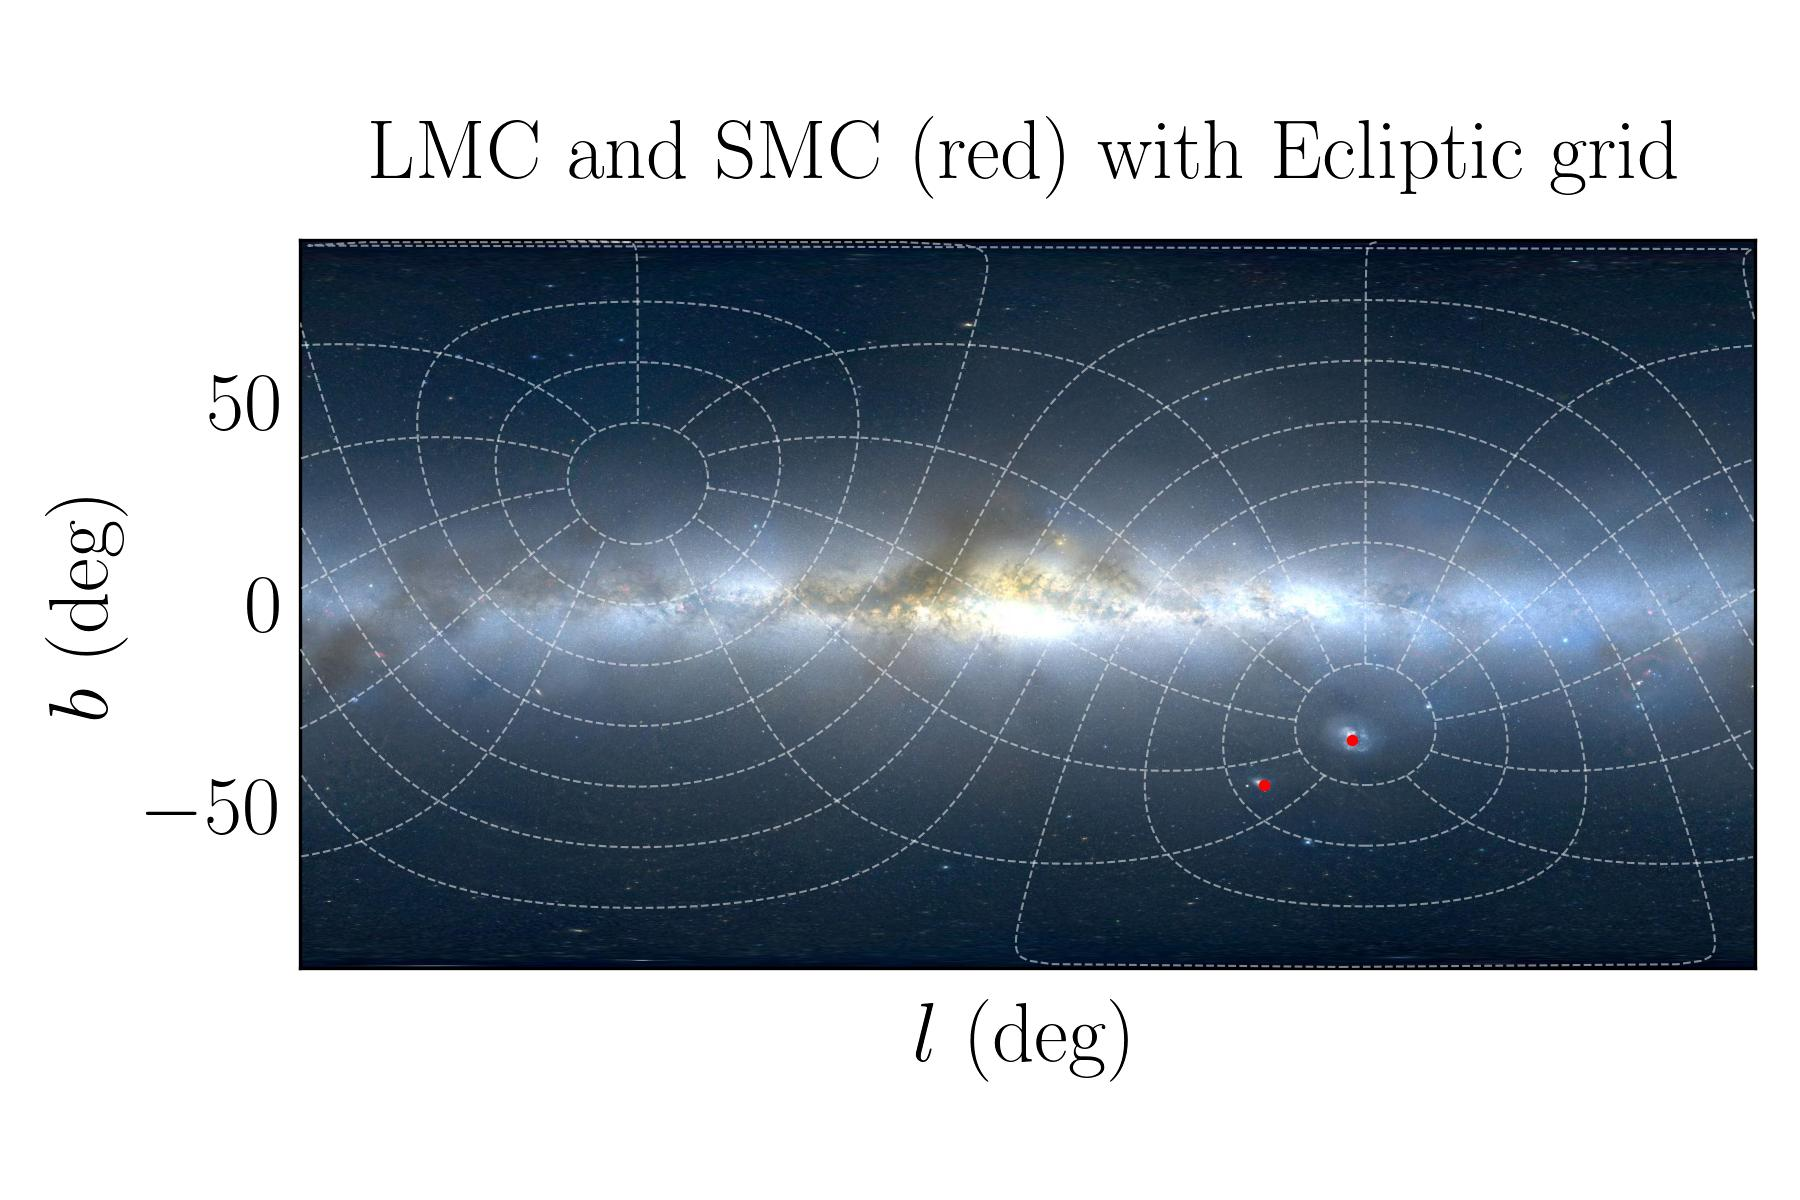
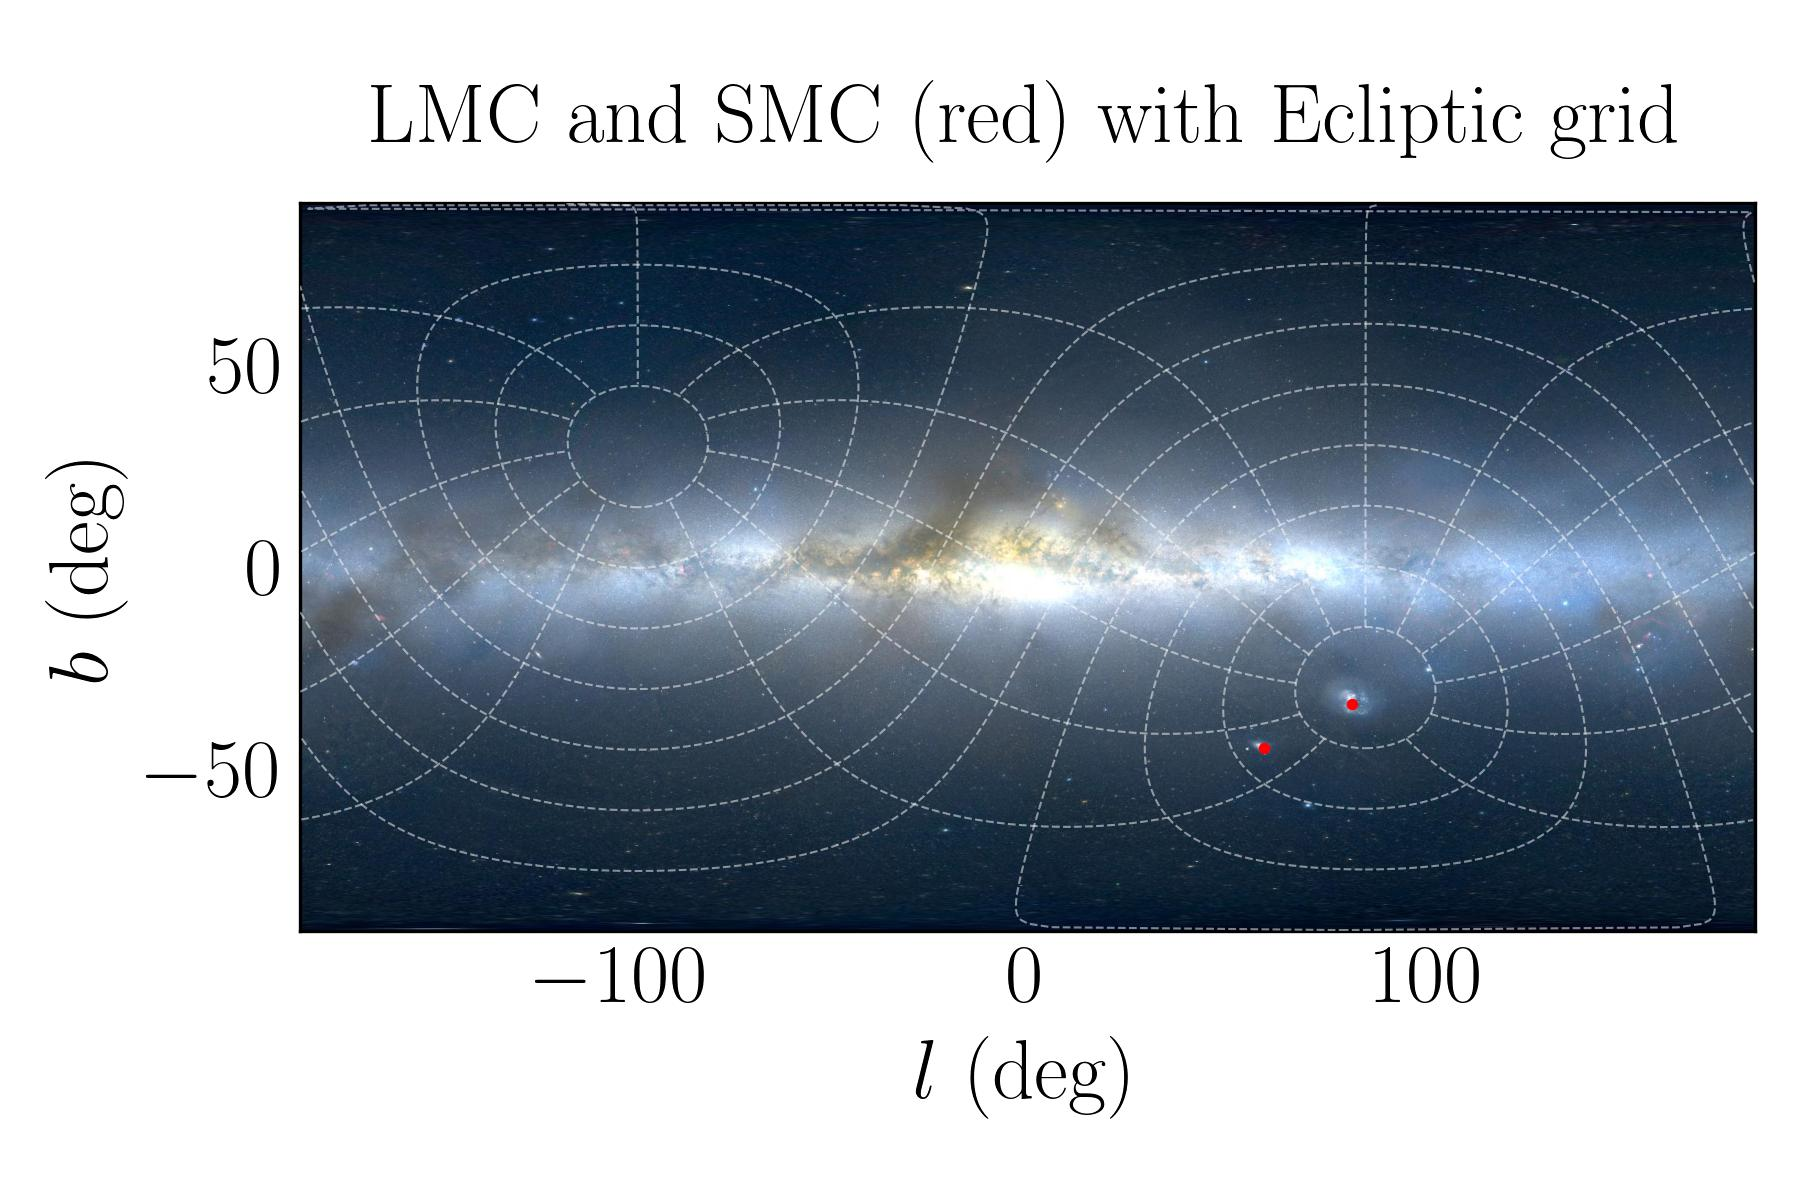
add objname conversion tests

diff --git a/src/mw_plot/base.py b/src/mw_plot/base.py
@@ -137,13 +137,13 @@ class MWPlotCommon(ABC):
             )
         result = result.filled(np.nan)[0]
 
-        if np.isnan(result["PLX_VALUE"]):
+        if np.isnan(result["PLX_VALUE"]) and np.isnan(result["Distance_distance"]):
+            # in case the distance is not available
+            distance = None
+        elif np.isnan(result["PLX_VALUE"]):
             distance = (
                 result["Distance_distance"] * u.Unit(result["Distance_unit"])
             ).to(u.kpc)
-        elif np.isnan(result["Distance_distance"]):
-            # in case the distance is not available
-            distance = None
         else:  # use parallax to calculate distance
             distance = (1 / result["PLX_VALUE"]) * u.kpc
 

diff --git a/tests/test_mpl.py b/tests/test_mpl.py
@@ -52,6 +52,11 @@ def test_mw_skymap(simbad, projection, grayscale, grid, background):
     plot_instance.savefig(file="lmc_smc_projection.png")
 
 
+@pytest.mark.parametrize("objname", ["M31", "Galactic Center"])
+def test_mw_skymap_objname(objname):
+    plot_instance = MWSkyMap(center=objname, radius=(5000, 5000) * u.arcsec, background="Gaia DR3 density map")
+
+
 @pytest.mark.parametrize(
     "projection,grid,background",
     [

diff --git a/src/mw_plot/matplotlib_backend.py b/src/mw_plot/matplotlib_backend.py
@@ -516,7 +516,8 @@ class MWSkyMap(MWSkyMapBase):
             grid_style = "--"
 
             self._built = True
-            self.ax.set_xticklabels([])
+            if self.projection != "equirectangular":
+                self.ax.set_xticklabels([])
             if self.grid is True:
                 for i in [0, -15, 15, -30, 30, -45, 45, -60, 60, -75, 75]:
                     self.ax.plot(

diff --git a/CHANGELOG.md b/CHANGELOG.md
@@ -1,20 +1,22 @@
 # Change log
 
 ## [0.13.0] - xx xxxx 20xx
-- Remove `setuptools` as a requirement
-- Add milkyway background in far-infrared, infrared and gamma
-- Add fetching Hierarchical Progressive Surveys (HiPS) images as background
+- Removed setuptools as a requirement
+- Added Milky Way background images in far-infrared, infrared, and gamma-ray wavelengths
+- Added support for fetching Hierarchical Progressive Surveys (HiPS) images as backgrounds
+- Improved test suite coverage
+- Enhanced documentation
 
 ## [0.12.0] - 10 June 2024
-- Add radius (r) as supported parameter for bokeh figures (Mitlasóczki Bence)
-- Fix a bug where ticks show up in between the all-sky plot and the colour bar when doing all-sky plot + scatter plot + colorbar (Camila Navarrete)
+- Added radius (r) as supported parameter for bokeh figures (Mitlasóczki Bence)
+- Fixed a bug where ticks show up in between the all-sky plot and the colour bar when doing all-sky plot + scatter plot + colorbar (Camila Navarrete)
 
 ## [0.11.1] - 2 October 2023
 - Bumped Matplotlib minimum required version to at least v3.7.0
 
 ## [0.11.0] - 12 September 2023
-- Use new Matplotlib `pcolormesh` API introduced in v3.7.0 to plot sky map with projections faster with less memory
-- Add option to plot galactic grid, equatorial grid and ecliptic grid in sky map
+- Used new Matplotlib `pcolormesh` API introduced in v3.7.0 to plot sky map with projections faster with less memory
+- Added option to plot galactic grid, equatorial grid and ecliptic grid in sky map
 
 ## [0.10.0] - 1 March 2023
 - Release on Github will push a release to PyPI too
